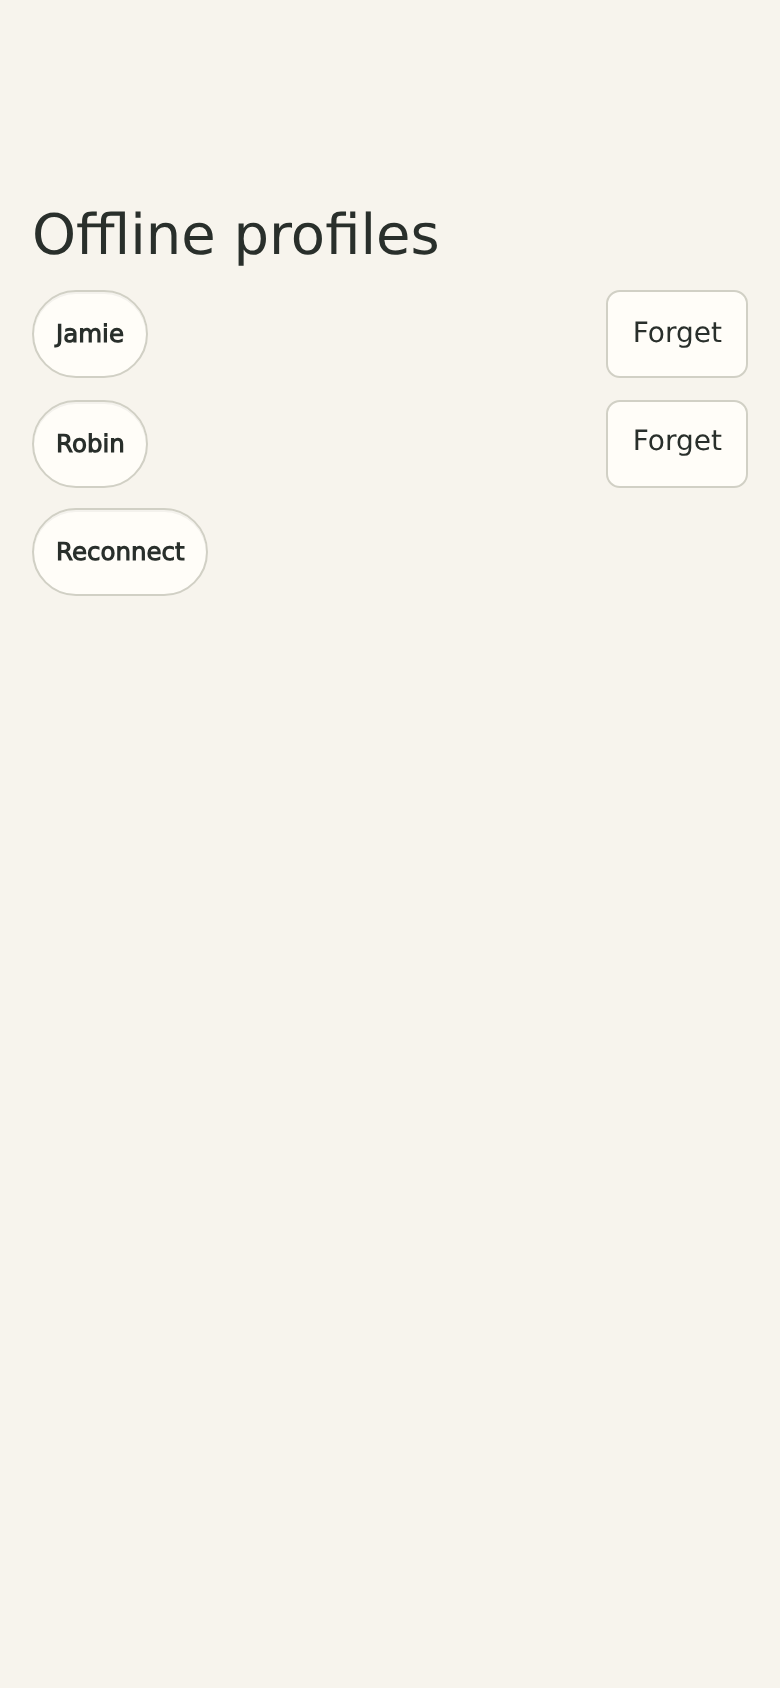
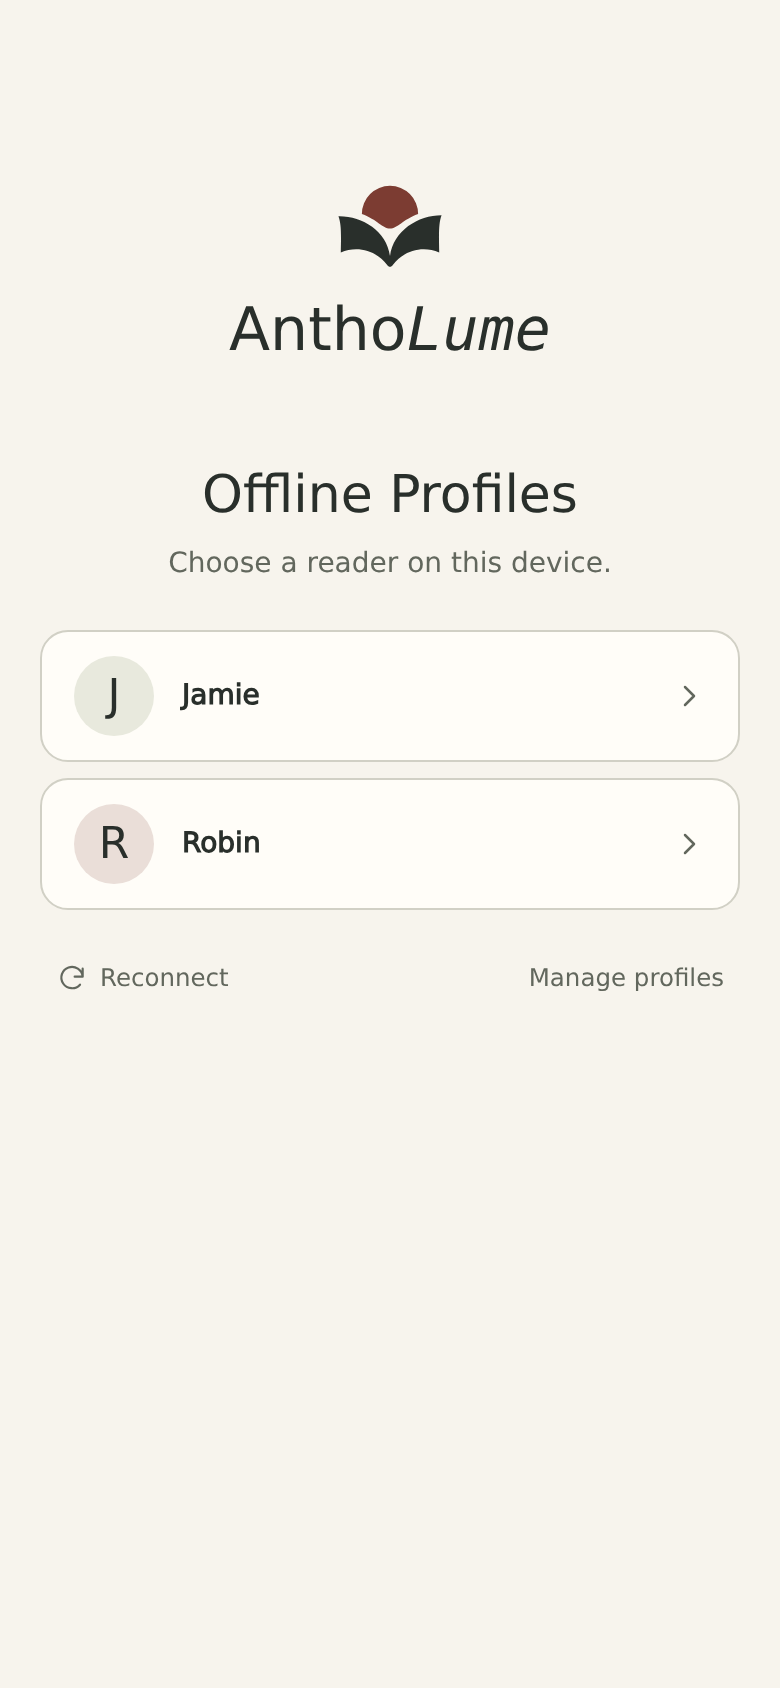
feat(web): simplify offline profiles, pinning and reading review

diff --git a/web/src/OfflineReading.tsx b/web/src/OfflineReading.tsx
@@ -6,18 +6,27 @@ import { profiles, type OfflineProfile } from './offlineProfiles';
 import { useReading, type Account, type OfflineChoice, type OfflineRecord } from './reading';
 import { Dialog, ErrorNotice } from './ui';
 import { Button } from './Controls';
-import styles from './App.module.css';
+import { Brand } from './Brand';
+import { Icon } from './Icon';
+import styles from './OfflineReading.module.css';
 
 export function OfflinePicker() {
   const [forget, setForget] = useState<OfflineProfile>();
   const [error, setError] = useState<unknown>();
-  const reading = useReading(), navigate = useNavigate();
-  return <main className={styles.auth}><h1>Offline profiles</h1>
-    {profiles().map(p => <div key={JSON.stringify(p.account)} className={styles.profileRow}>
-      <Button onClick={() => { session.chooseOffline(p.account); navigate('/library', {replace:true}); }}>{p.name}</Button>
-      <button aria-label={`Forget ${p.name}`} onClick={() => setForget(p)}>Forget</button>
-    </div>)}
-    <Button onClick={() => void session.checkSession()}>Reconnect</Button>
+  const [manage, setManage] = useState(false);
+  const reading = useReading(), navigate = useNavigate(), remembered = profiles();
+  return <main className={styles.picker}>
+    <header><div className={styles.wordmark}><Brand /></div>
+      <h1>Offline Profiles</h1><p>{remembered.length ? 'Choose a reader on this device.' : 'Reconnect to sign in and add a profile.'}</p>
+    </header>
+    <ul className={styles.profiles}>{remembered.map(p => <li key={JSON.stringify(p.account)}>
+      <button className={styles.profile} onClick={() => { session.chooseOffline(p.account); navigate('/library', {replace:true}); }}>
+        <span className={styles.avatar} aria-hidden="true">{Array.from(p.name)[0]?.toLocaleUpperCase()}</span>
+        <strong>{p.name}</strong><Icon name="forward" size={18} />
+      </button>{manage && <button className={styles.quiet} aria-label={`Forget ${p.name}`} onClick={() => { setError(null); setForget(p); }}><Icon name="trash" size={17} /></button>}
+    </li>)}</ul>
+    <footer><button className={styles.quiet} onClick={() => void session.checkSession()}><Icon name="refresh" size={16} /> Reconnect</button>
+      {!!remembered.length && <button className={styles.quiet} aria-pressed={manage} onClick={() => setManage(!manage)}>{manage ? 'Done' : 'Manage profiles'}</button>}</footer>
     {forget && <Dialog title={`Forget ${forget.name}?`} onClose={() => setForget(undefined)}>
       <p>This removes the offline profile and its unsubmitted reading.</p><ErrorNotice error={error} />
       <Button onClick={async () => { try { await reading.forgetDrafts(forget.account); session.forgetOffline(forget.account); setForget(undefined); } catch (e) { setError(e); } }}>Forget on this device</Button>
@@ -58,12 +67,12 @@ function BookComparison({ account, book, timezone, selected, select }: { account
     queryFn: ({signal}) => comparison(account, book, timezone, signal) });
   const progress = book.rows.find(r => r.kind === 'progress');
   const activities = book.rows.filter(r => r.kind === 'activity');
-  return <fieldset className={styles.reviewBook}><legend>{book.title}</legend>
-    <div className={styles.reviewGrid}><span /><small>Offline</small><small>Server</small>
-      {progress && <><label><input type="checkbox" disabled={!query.data?.progress} checked={selected.has(progress.id)} onChange={e => select([{id: progress.id, revision: query.data?.progress?.revision}], e.target.checked)} /> Progress</label><span>{percent(progress.checkpoint.fraction)}</span><span>{query.data ? percent(query.data.progress?.fraction ?? null) : '…'}</span></>}
-      {!!activities.length && <><label><input type="checkbox" disabled={!query.data} checked={activities.every(r => selected.has(r.id))} onChange={e => select(activities.map(r => ({id:r.id})), e.target.checked)} /> Activity</label><span>{duration(activities.reduce((n,r) => n + r.event.duration,0))}</span><span>{query.data ? duration(query.data.seconds) : '…'}</span></>}
-    </div>{query.isError && <button onClick={() => void query.refetch()}>Retry comparison</button>}
-  </fieldset>;
+  return <section className={styles.reviewBook} role="group" aria-label={book.title}>
+    <header><h3>{book.title}</h3><small>Offline</small><small>Server</small></header>
+    {progress && <label><span><input aria-label="Progress" type="checkbox" disabled={!query.data?.progress} checked={selected.has(progress.id)} onChange={e => select([{id: progress.id, revision: query.data?.progress?.revision}], e.target.checked)} />Progress</span><b>{percent(progress.checkpoint.fraction)}</b><span>{query.data ? percent(query.data.progress?.fraction ?? null) : '…'}</span></label>}
+    {!!activities.length && <label><span><input aria-label="Activity" type="checkbox" disabled={!query.data} checked={activities.every(r => selected.has(r.id))} onChange={e => select(activities.map(r => ({id:r.id})), e.target.checked)} />Activity</span><b>{duration(activities.reduce((n,r) => n + r.event.duration,0))}</b><span>{query.data ? duration(query.data.seconds) : '…'}</span></label>}
+    {query.isError && <button onClick={() => void query.refetch()}>Retry comparison</button>}
+  </section>;
 }
 export function OfflineReview({account}: {account: Account}) {
   const reading = useReading(), {session: current} = useSession();
@@ -92,11 +101,11 @@ export function OfflineReview({account}: {account: Account}) {
     finally { setSelected(new Map()); setBusy(false); setDiscard(false); }
   }
   if (later) return <button onClick={() => setLater(false)}>Review offline reading</button>;
-  return <Dialog title="Offline reading" onClose={close} layout="scroll-body" footer={<>
-    <Button disabled={busy} onClick={close}>Not now</Button>
-    <Button disabled={busy || !choices.length} onClick={() => setDiscard(!discard)}>{discard ? 'Cancel discard' : 'Discard…'}</Button>
-    <Button tone="primary" disabled={busy || !choices.length} onClick={() => void submit(discard)}>{discard ? 'Discard selected' : 'Upload selected'}</Button>
-  </>}><ErrorNotice error={error} />{group(records).map(book => <BookComparison key={book.document} book={book} account={account} timezone={current?.user?.timezone ?? 'UTC'} selected={selected} select={(items, checked) => {
+  return <Dialog title="Offline Reading" onClose={close} layout="scroll-body" placement="mobile-sheet" footer={<div className={styles.reviewActions}>
+    <button className={styles.quiet} disabled={busy} onClick={() => discard ? setDiscard(false) : close()}>{discard ? 'Cancel' : 'Not now'}</button>
+    {!discard && <button className={styles.quiet} title="Discard selected records" aria-label="Discard selected records" disabled={busy || !choices.length} onClick={() => setDiscard(true)}><Icon name="trash" size={17} /></button>}
+    <Button tone={discard ? 'danger' : 'primary'} disabled={busy || !choices.length} onClick={() => void submit(discard)}>{discard ? 'Discard selected' : 'Upload selected'}</Button>
+  </div>}><ErrorNotice error={error} />{group(records).map(book => <BookComparison key={book.document} book={book} account={account} timezone={current?.user?.timezone ?? 'UTC'} selected={selected} select={(items, checked) => {
     if (busy) return;
     setDiscard(false); setSelected(previous => { const next = new Map(previous); for (const item of items) { if (checked) next.set(item.id,item); else next.delete(item.id); } return next; });
   }} />)}</Dialog>;

diff --git a/web/src/routes/Library.tsx b/web/src/routes/Library.tsx
@@ -9,6 +9,8 @@ import styles from '../App.module.css';
 import { Icon } from '../Icon';
 import { LoadingStatus, Skeleton } from '../Skeleton';
 import { RecentBooks } from '../RecentBooks';
+import offlineStyles from '../OfflineReading.module.css';
+import { profiles } from '../offlineProfiles';
 import { OfflinePin } from '../OfflinePin';
 import { Button } from '../Controls';
 
@@ -136,8 +138,8 @@ export function Library() {
   }
   return <>
     <PageHeader title="Library" headingRef={heading} mobileBrand
-      actions={reading.pendingCount > 0 && <Link className={styles.pendingSync} to="/settings?sync=open">{reading.pendingCount} pending</Link>} />
-    {offline && <p role="status">Offline · Books on this device. <button onClick={() => void session.checkSession()}>Reconnect</button> <button onClick={() => session.chooseOffline()}>Switch profile</button></p>}
+      actions={offline ? <button className={styles.icon} title="Switch profile" aria-label="Switch profile" onClick={() => session.chooseOffline()}><Icon name="user" /></button> : reading.pendingCount > 0 && <Link className={styles.pendingSync} to="/settings?sync=open">{reading.pendingCount} pending</Link>} />
+    {offline && <div className={offlineStyles.shelfStatus}><span role="status"><i />Offline · {profiles().find(p => p.account.userId === access.account.userId && p.account.readingGeneration === access.account.readingGeneration)?.name ?? 'On this device'}</span><button className={offlineStyles.quiet} onClick={() => void session.checkSession()}><Icon name="refresh" size={14} />Reconnect</button></div>}
     {!reading.ready && !sharedEnabled && <LoadingStatus>Opening your stored library…</LoadingStatus>}
     <RecentBooks books={recent} bookLinkState={bookLinkState} />
     <form className={styles.searchRow} role="search" onSubmit={(event) => { event.preventDefault(); update('q', input.trim()); }}>
@@ -146,7 +148,7 @@ export function Library() {
         <label><span className={styles.srOnly}>Search title or author</span><input ref={searchInput} type="search" value={input} maxLength={256} placeholder="Title or author" onChange={(event) => setInput(event.target.value)} /></label>
         {(input || q) && <button type="button" className={styles.searchClear} aria-label="Clear search" onClick={clearSearch}>×</button>}
       </div>
-      <button type="button" className={styles.icon} aria-label="Add Book" disabled={access.kind !== 'authenticated' || !!capabilities?.demo_mode} onClick={() => { setNewBook(null); setError(null); open('add'); }}><Icon name="add" /></button>
+      {!offline && <button type="button" className={styles.icon} aria-label="Add Book" disabled={access.kind !== 'authenticated' || !!capabilities?.demo_mode} onClick={() => { setNewBook(null); setError(null); open('add'); }}><Icon name="add" /></button>}
       <button type="button" className={styles.icon} aria-label="Sort Books" aria-haspopup="dialog" aria-expanded={dialog === 'sort'} onClick={() => open('sort')}><Icon name="sort" /></button>
     </form>
     <div className={styles.divider} />
@@ -154,7 +156,7 @@ export function Library() {
     {documents.isPending && documents.fetchStatus === 'fetching' && <LoadingStatus>Loading shared books…</LoadingStatus>}
     {!books.length && reading.ready && !documents.isFetching && !(sharedEnabled && hasNextPage) && <p>{offline ? 'No matching books on this device.' : 'No matching books. Try another search or add an EPUB.'}</p>}
     <div className={styles.grid}>
-      {books.map((book) => <BookCard key={bookKey(book.ref)} book={book} linkState={bookLinkState} action={offline ? 'read' : 'books'}>{offline && book.ref.kind === 'server' && <OfflinePin book={book.ref} metadata={book} pinned={!!book.stored?.pinned} />}</BookCard>)}
+      {books.map((book) => <BookCard key={bookKey(book.ref)} book={book} linkState={bookLinkState} action={offline ? 'read' : 'books'}>{offline && book.ref.kind === 'server' && <OfflinePin overlay book={book.ref} metadata={book} pinned={!!book.stored?.pinned} />}</BookCard>)}
       {!books.length && (!reading.ready || documents.isPending && documents.fetchStatus === 'fetching') && Array.from({ length: 6 }, (_, index) => <div key={index} className={styles.card} aria-hidden="true">
         <Skeleton block className={`${styles.cover} ${styles.coverThumbnail}`} />
         <h2 className={styles.cardTitle}><Skeleton width="75%" /></h2>

diff --git a/web/src/OfflineReading.module.css b/web/src/OfflineReading.module.css
@@ -1,0 +1,36 @@
+.picker { width: min(380px, calc(100% - 40px)); margin: clamp(32px, 10dvh, 96px) auto; }
+.picker header { text-align: center; }
+.wordmark { font-size: 30px; line-height: 1.1; margin-bottom: clamp(28px, 6dvh, 52px); }
+.wordmark img { width: 60px; height: 60px; }
+.picker h1 { font: 400 clamp(26px, 6vw, 34px)/1.2 var(--display); margin: 0; }
+.picker header p { color: var(--muted); margin: 8px 0 22px; }
+.profiles { list-style: none; padding: 0; margin: 0; display: grid; gap: 8px; }
+.profiles li { display: flex; align-items: center; border: 1px solid var(--line); border-radius: 14px; background: var(--surface); }
+.profile { flex: 1; min-width: 0; display: flex; align-items: center; gap: 14px; padding: 12px 16px; border: 0; border-radius: inherit; background: none; text-align: start; }
+.profile strong { flex: 1; overflow-wrap: anywhere; }
+.profile > svg { flex: none; color: var(--muted); }
+.avatar { flex: none; display: grid; place-items: center; width: 40px; height: 40px; border-radius: 50%; color: var(--ink); background: var(--hero); font: 22px var(--display); }
+.profiles li:nth-child(2n) .avatar { background: color-mix(in srgb, var(--accent) 16%, var(--surface)); }
+.picker footer, .shelfStatus { display: flex; align-items: center; justify-content: space-between; }
+.picker footer { margin-top: 12px; }
+.quiet { display: inline-flex; align-items: center; justify-content: center; gap: 6px; min-width: 44px; min-height: 44px; padding: 4px 8px; background: none; border: 0; color: var(--muted); font-size: .875rem; }
+.quiet:hover:not(:disabled), .profile:hover { background: var(--hero); color: var(--ink); }
+.shelfStatus { color: var(--muted); font-size: .875rem; margin-bottom: 6px; }
+.shelfStatus span { display: flex; align-items: center; gap: 6px; }
+.shelfStatus i { width: 7px; height: 7px; border-radius: 50%; background: var(--accent); }
+.bookmark { position: absolute; top: 0; right: 0; width: 44px; height: 44px; padding: 0; border: 0; display: grid; place-items: center; background: transparent; color: var(--ink); }
+.bookmark svg { box-sizing: content-box; padding: 7px; background: var(--surface); border-radius: 50%; box-shadow: 0 1px 4px #0003; }
+.bookmark[aria-pressed='true'] svg { fill: var(--accent); color: var(--accent); }
+.reviewBook { padding: 12px 0; border-top: 1px solid var(--line); }
+.reviewBook header, .reviewBook label { display: grid; grid-template-columns: minmax(0, 1fr) repeat(2, minmax(52px, 18%)); gap: 6px; align-items: center; text-align: end; }
+.reviewBook header { padding: 0 8px 6px; }
+.reviewBook h3 { text-align: start; font: 600 1rem/1.3 var(--display); overflow-wrap: anywhere; margin: 0; }
+.reviewBook small { color: var(--muted); font-weight: 500; }
+.reviewBook label { min-height: 44px; border-radius: 8px; padding: 0 8px; font-size: .9rem; font-variant-numeric: tabular-nums; cursor: pointer; }
+.reviewBook label:has(input:checked) { background: var(--hero); }
+.reviewBook label > span:first-child { display: flex; gap: 9px; align-items: center; }
+.reviewBook label > span:last-child { color: var(--muted); }
+.reviewBook label input { width: 17px; height: 17px; min-height: 0; margin: 0; padding: 0; accent-color: var(--accent); }
+.reviewActions { width: 100%; display: flex; align-items: center; gap: 4px; border-top: 1px solid var(--line); padding-top: 8px; }
+.reviewActions > :last-child { margin-left: auto; }
+@media (min-width: 760px) { .picker { margin-top: min(14dvh, 150px); } }

diff --git a/web/tests/offline-library.spec.ts b/web/tests/offline-library.spec.ts
@@ -21,7 +21,9 @@ test('cold start, pick a profile, review offline reading and upload the selected
   const cold = await context.newPage();
   await cold.goto(`${server.origin}/`);
   await cold.getByRole('button', {name: user, exact:true}).click();
-  await expect(cold.getByText(/Offline · Books on this device/)).toBeVisible();
+  await expect(cold.getByRole('status').filter({hasText:'Offline · ' + user})).toBeVisible();
+  await expect(cold.getByRole('navigation',{name:'Main navigation'})).toHaveCount(0);
+  await expect(cold.getByRole('button',{name:'Switch profile'})).toBeVisible();
   await expect(cold.getByRole('article')).toHaveCount(1);
   await expect(cold.getByRole('article')).toContainText('Public book 01');
   await cold.clock.setFixedTime(started);
@@ -42,6 +44,13 @@ test('cold start, pick a profile, review offline reading and upload the selected
   await context.setOffline(false);
   const review = cold.getByRole('dialog', {name:'Offline reading'});
   await expect(review).toBeVisible();
+  for (const width of [320, 1280, 390]) {
+    await cold.setViewportSize({width, height:844});
+    const box = await review.boundingBox();
+    if (width < 760) expect(Math.round(box!.y + box!.height)).toBe(844);
+    else expect(box!.width).toBeLessThan(width / 2);
+    expect(await review.evaluate(el => el.scrollWidth <= el.clientWidth)).toBe(true);
+  }
   await expect(review.getByText('2m', {exact:true})).toBeVisible();
   await expect(review.getByText('30s', {exact:true})).toBeVisible();
   expect(serverEffects(server.data,user)).toMatchObject({activity:2});
@@ -59,6 +68,7 @@ test('cold start, pick a profile, review offline reading and upload the selected
   expect(serverEffects(server.data, user)).toMatchObject({ activity: 3, activitySeconds: 450 });
   await cold.goto(`${server.origin}/library`);
   await context.setOffline(true);
+  await cold.getByRole('button', { name: 'Manage profiles' }).click();
   await cold.getByRole('button', { name: `Forget ${user}` }).click();
   await cold.getByRole('button', { name: 'Forget on this device' }).click();
   await expect(cold.getByRole('button',{ name:user, exact:true })).toHaveCount(0);
@@ -118,7 +128,9 @@ test('seven pins and an automatically cached book coexist on the offline shelf',
   await context.setOffline(true);
   await page.getByRole('button',{name:'offline-capacity',exact:true}).click();
   await expect(page.getByRole('article')).toHaveCount(8);
-  await expect(page.getByRole('button', { name: 'Unpin offline copy' })).toHaveCount(7);
-  await page.getByRole('button', { name: 'Unpin offline copy' }).first().click();
-  await expect(page.getByRole('button', { name: 'Unpin offline copy' })).toHaveCount(6);
+  const pins = page.getByRole('button', { name: /^Unpin offline copy:/, pressed: true });
+  await expect(pins).toHaveCount(7);
+  await pins.first().click();
+  await expect(pins).toHaveCount(6);
+  await expect(page.getByRole('article')).toHaveCount(8);
 });

diff --git a/web/src/App.module.css b/web/src/App.module.css
@@ -12,11 +12,6 @@
 .brandLockup img { display: block; margin: 0 auto 4px; }
 .mobileBrand { display: none; }
 .authBrand { font-size: clamp(36px, 8vw, 48px); line-height: 1.1; margin-bottom: clamp(20px, 4vh, 36px); }
-.profileRow { display: flex; align-items: center; justify-content: space-between; gap: 1rem; margin-block: .75rem; }
-.reviewBook { min-width: 0; border: 0; border-bottom: 1px solid var(--line); margin: .5rem 0 1rem; padding: .5rem 0 1rem; }
-.reviewBook legend { font-weight: 650; overflow-wrap: anywhere; }
-.reviewGrid { display: grid; grid-template-columns: minmax(7rem, 1fr) repeat(2, minmax(3rem, auto)); align-items: center; gap: .4rem .75rem; font-variant-numeric: tabular-nums; }
-.reviewGrid label { display: flex; align-items: center; gap: .4rem; min-height: 2.5rem; }
 .authBrand img { width: clamp(72px, 14vh, 96px); height: auto; }
 .tabs { display: grid; gap: 6px; }
 .tabs a { display: flex; align-items: center; gap: 10px; min-height: 44px; padding: 8px 12px; text-decoration: none; border-radius: var(--radius); }
@@ -27,6 +22,8 @@
   .brand:hover { color: var(--accent); }
 }
 .workspace { margin-left: 184px; }
+.offlineWorkspace { margin: 0 auto; }
+.offlineWorkspace .mobileBrand { display: block; }
 .main { padding: 22px 28px 36px; max-width: 1260px; margin: auto; }
 .readerShell .rail, .readerShell .skip { display: none; }
 .readerShell .workspace { margin: 0; padding: 0; }
@@ -84,7 +81,7 @@
 .icon { composes: iconButton from './Controls.module.css'; }
 .divider { height: 1px; background: var(--line); margin: 16px 0 10px; }
 .grid { display: grid; grid-template-columns: repeat(auto-fill, minmax(142px, 1fr)); gap: 22px 18px; }
-.card { min-width: 0; }
+.card { min-width: 0; position: relative; }
 .bookLink { text-decoration: none; display: block; }
 .cover { position: relative; height: 198px; width: 100%; background: var(--subtle); box-shadow: 0 2px 5px #0002; border-radius: 3px; overflow: hidden; margin-bottom: 10px; }
 .cover img { height: 100%; width: 100%; object-fit: cover; }

diff --git a/web/src/App.tsx b/web/src/App.tsx
@@ -91,15 +91,15 @@ function Shell() {
   if (!showShell) return <Outlet />;
   return <div className={`${styles.shell} ${reader ? styles.readerShell : ''}`}>
       <a className={styles.skip} href="#content">Skip to content</a>
-      <aside className={styles.rail}>
+      {access.kind !== 'offline' && <aside className={styles.rail}>
         <Link to="/library" className={styles.brand}><Brand /></Link>
         <nav aria-label="Main navigation" className={styles.tabs}>
           <NavLink to="/library"><i className={styles.tabIcon}><Icon name="library" /></i><span>Library</span></NavLink>
-          {access.kind !== 'offline' && <><NavLink to="/insights"><i className={styles.tabIcon}><Icon name="insights" /></i><span>Insights</span></NavLink>
-          <NavLink to="/settings" data-section-active={location.pathname.startsWith('/admin') || undefined}><i className={styles.tabIcon}><Icon name="settings" /></i><span>Settings</span></NavLink></>}
+          <NavLink to="/insights"><i className={styles.tabIcon}><Icon name="insights" /></i><span>Insights</span></NavLink>
+          <NavLink to="/settings" data-section-active={location.pathname.startsWith('/admin') || undefined}><i className={styles.tabIcon}><Icon name="settings" /></i><span>Settings</span></NavLink>
         </nav>
-      </aside>
-    <div className={styles.workspace}>
+      </aside>}
+    <div className={access.kind === 'offline' ? styles.offlineWorkspace : styles.workspace}>
       <main ref={main} id="content" className={styles.main}>
         <div ref={recovery} className={reader ? styles.readerRecovery : undefined}>
           {reading.error && !reader && <ErrorNotice error={reading.error} />}

diff --git a/web/src/OfflinePin.tsx b/web/src/OfflinePin.tsx
@@ -3,7 +3,10 @@ import { useReading, type BookRef } from './reading';
 import { Button } from './Controls';
 import { ErrorNotice } from './ui';
 
-export function OfflinePin({ book, pinned, metadata }: { book: Extract<BookRef, { kind: 'server' }>; pinned: boolean; metadata: { title: string | null; author: string | null } }) {
+import { Icon } from './Icon';
+import styles from './OfflineReading.module.css';
+
+export function OfflinePin({ book, pinned, metadata, overlay = false }: { overlay?: boolean; book: Extract<BookRef, { kind: 'server' }>; pinned: boolean; metadata: { title: string | null; author: string | null } }) {
   const reading = useReading();
   const controller = useRef<AbortController | null>(null);
   const [busy, setBusy] = useState(false), [error, setError] = useState<unknown>(null);
@@ -19,5 +22,6 @@ export function OfflinePin({ book, pinned, metadata }: { book: Extract<BookRef, 
       operation.abort(); controller.current = null;
     }
   }
+  if (overlay) return <><button type="button" className={styles.bookmark} aria-busy={busy} disabled={busy || !reading.ready} aria-pressed={pinned} title={pinned ? 'Unpin offline copy' : 'Keep on this device'} aria-label={`${pinned ? 'Unpin offline copy' : 'Keep on this device'}: ${metadata.title ?? 'Untitled'}`} onClick={() => void toggle()}><Icon name="bookmark" size={18} /></button><ErrorNotice error={error} /></>;
   return <><Button disabled={busy || !reading.ready} aria-pressed={pinned} onClick={() => void toggle()}>{busy ? 'Updating offline copy…' : pinned ? 'Unpin offline copy' : 'Keep on this device'}</Button><ErrorNotice error={error} /></>;
 }

diff --git a/web/src/Icon.tsx b/web/src/Icon.tsx
@@ -1,6 +1,7 @@
-type Name = 'library' | 'insights' | 'settings' | 'back' | 'book' | 'download' | 'check' | 'cloud' | 'device' | 'search' | 'add' | 'sort' | 'edit' | 'trash' | 'contents' | 'user' | 'warning' | 'folder' | 'up' | 'forward' | 'refresh' | 'sign-out' | 'upload' | 'info';
+type Name = 'bookmark' | 'library' | 'insights' | 'settings' | 'back' | 'book' | 'download' | 'check' | 'cloud' | 'device' | 'search' | 'add' | 'sort' | 'edit' | 'trash' | 'contents' | 'user' | 'warning' | 'folder' | 'up' | 'forward' | 'refresh' | 'sign-out' | 'upload' | 'info';
 
 const paths: Record<Name, string> = {
+  bookmark: 'M6 4h12v17l-6-4-6 4z',
   library: 'M4 5h4v14H4z M8 5h4v14H8z M14 6l3.5-1 4 13-3.5 1z',
   insights: 'M4 19h16 M7 15v-4 M12 15V6 M17 15V9',
   settings: 'M4 6h7m4 0h5 M4 12h3m4 0h9 M4 18h10m4 0h2 M11 4v4 M7 10v4 M14 16v4',

diff --git a/web/tests/event-auth.spec.ts b/web/tests/event-auth.spec.ts
@@ -13,7 +13,7 @@ test('a failed session check in a second tab leaves the signed-in reader able to
     const failed = other.waitForEvent('requestfailed', req => req.url().endsWith('/api/v1/session'));
     await other.goto(`${server.origin}/library`);
     await failed;
-    await expect(other.getByRole('heading', { name: 'Offline profiles' })).toBeVisible();
+    await expect(other.getByRole('heading', { name: 'Offline Profiles' })).toBeVisible();
     expect(await storedRows(page, 'access')).toEqual(before);
     await turn(page);
     await expect.poll(() => serverEffects(server.data, user).receipts).toHaveLength(1);
